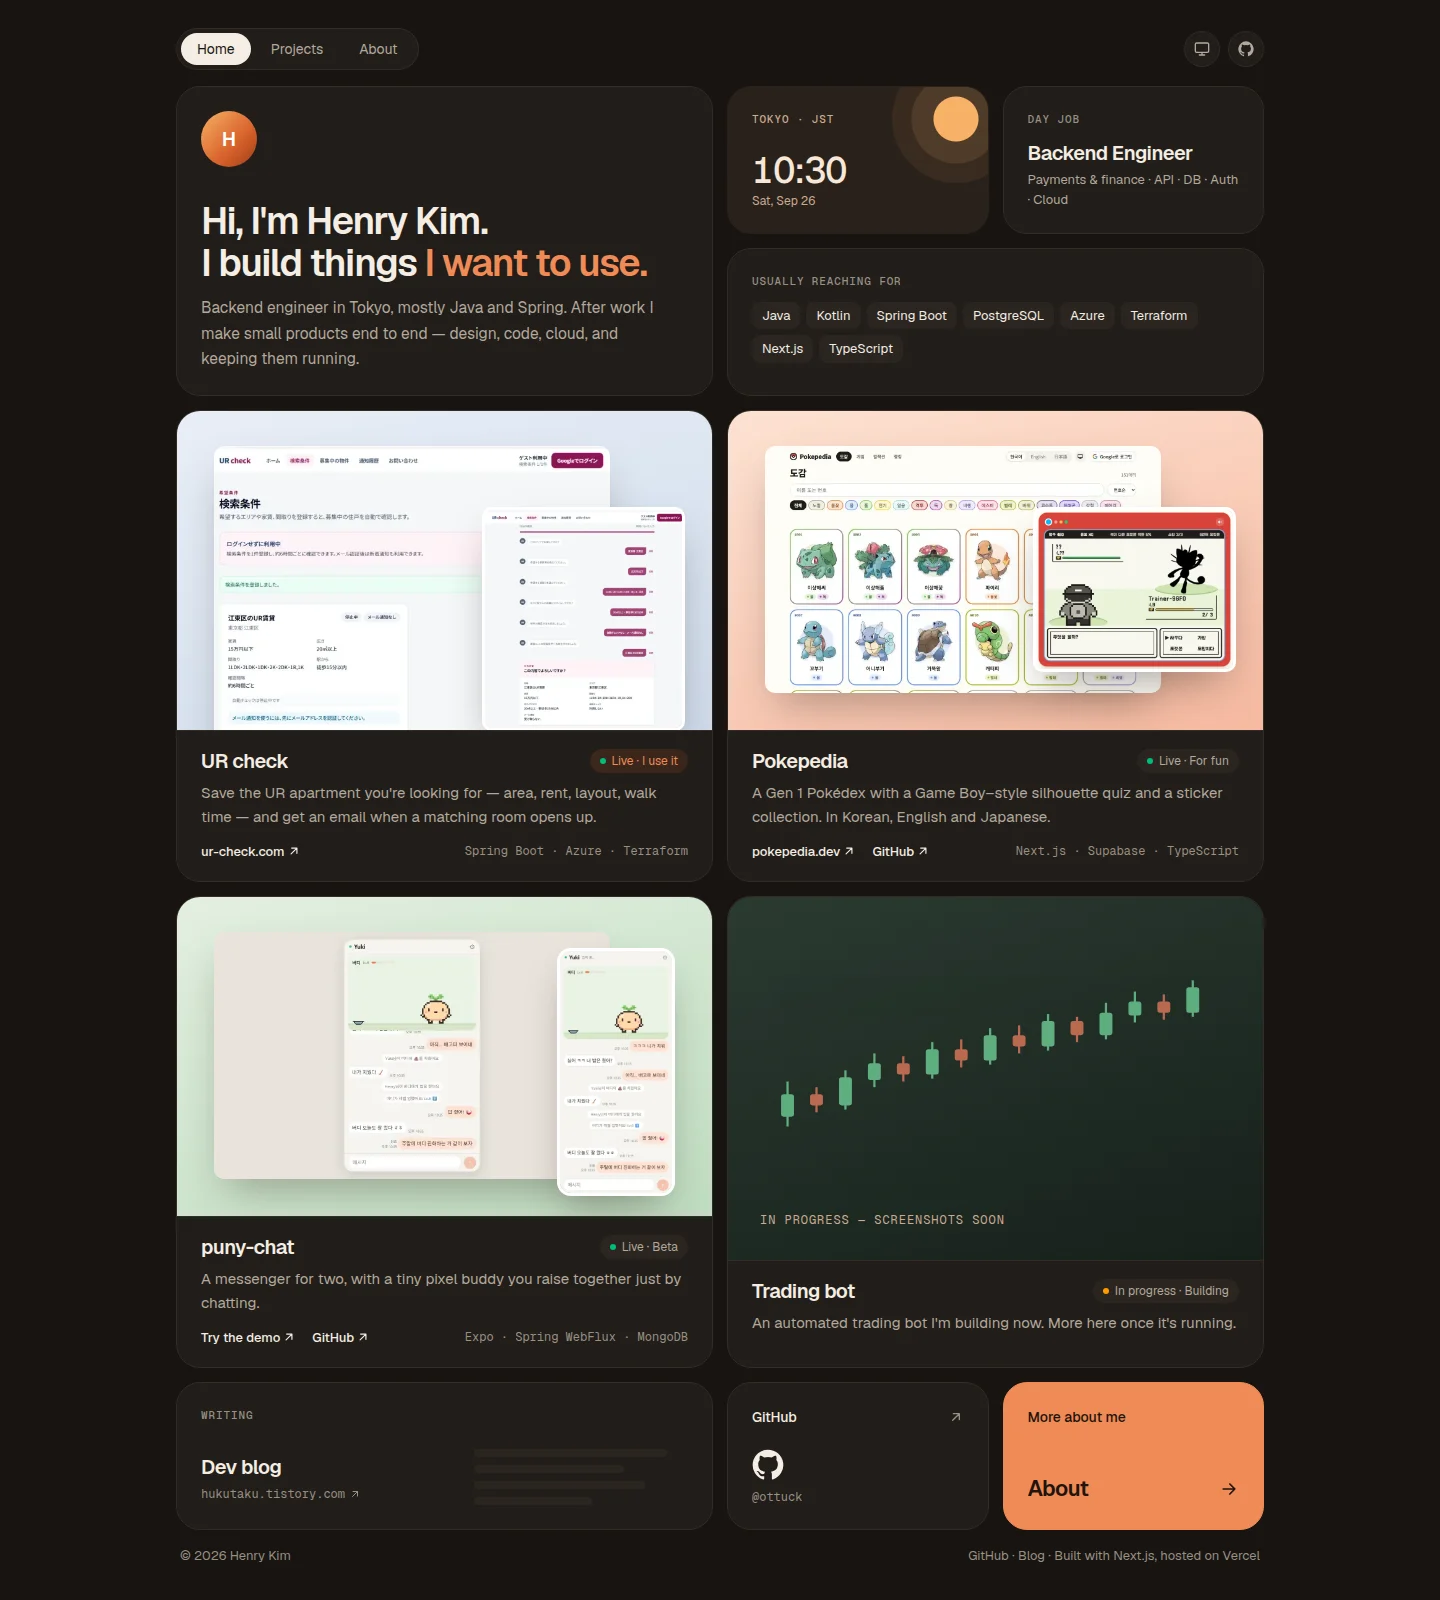
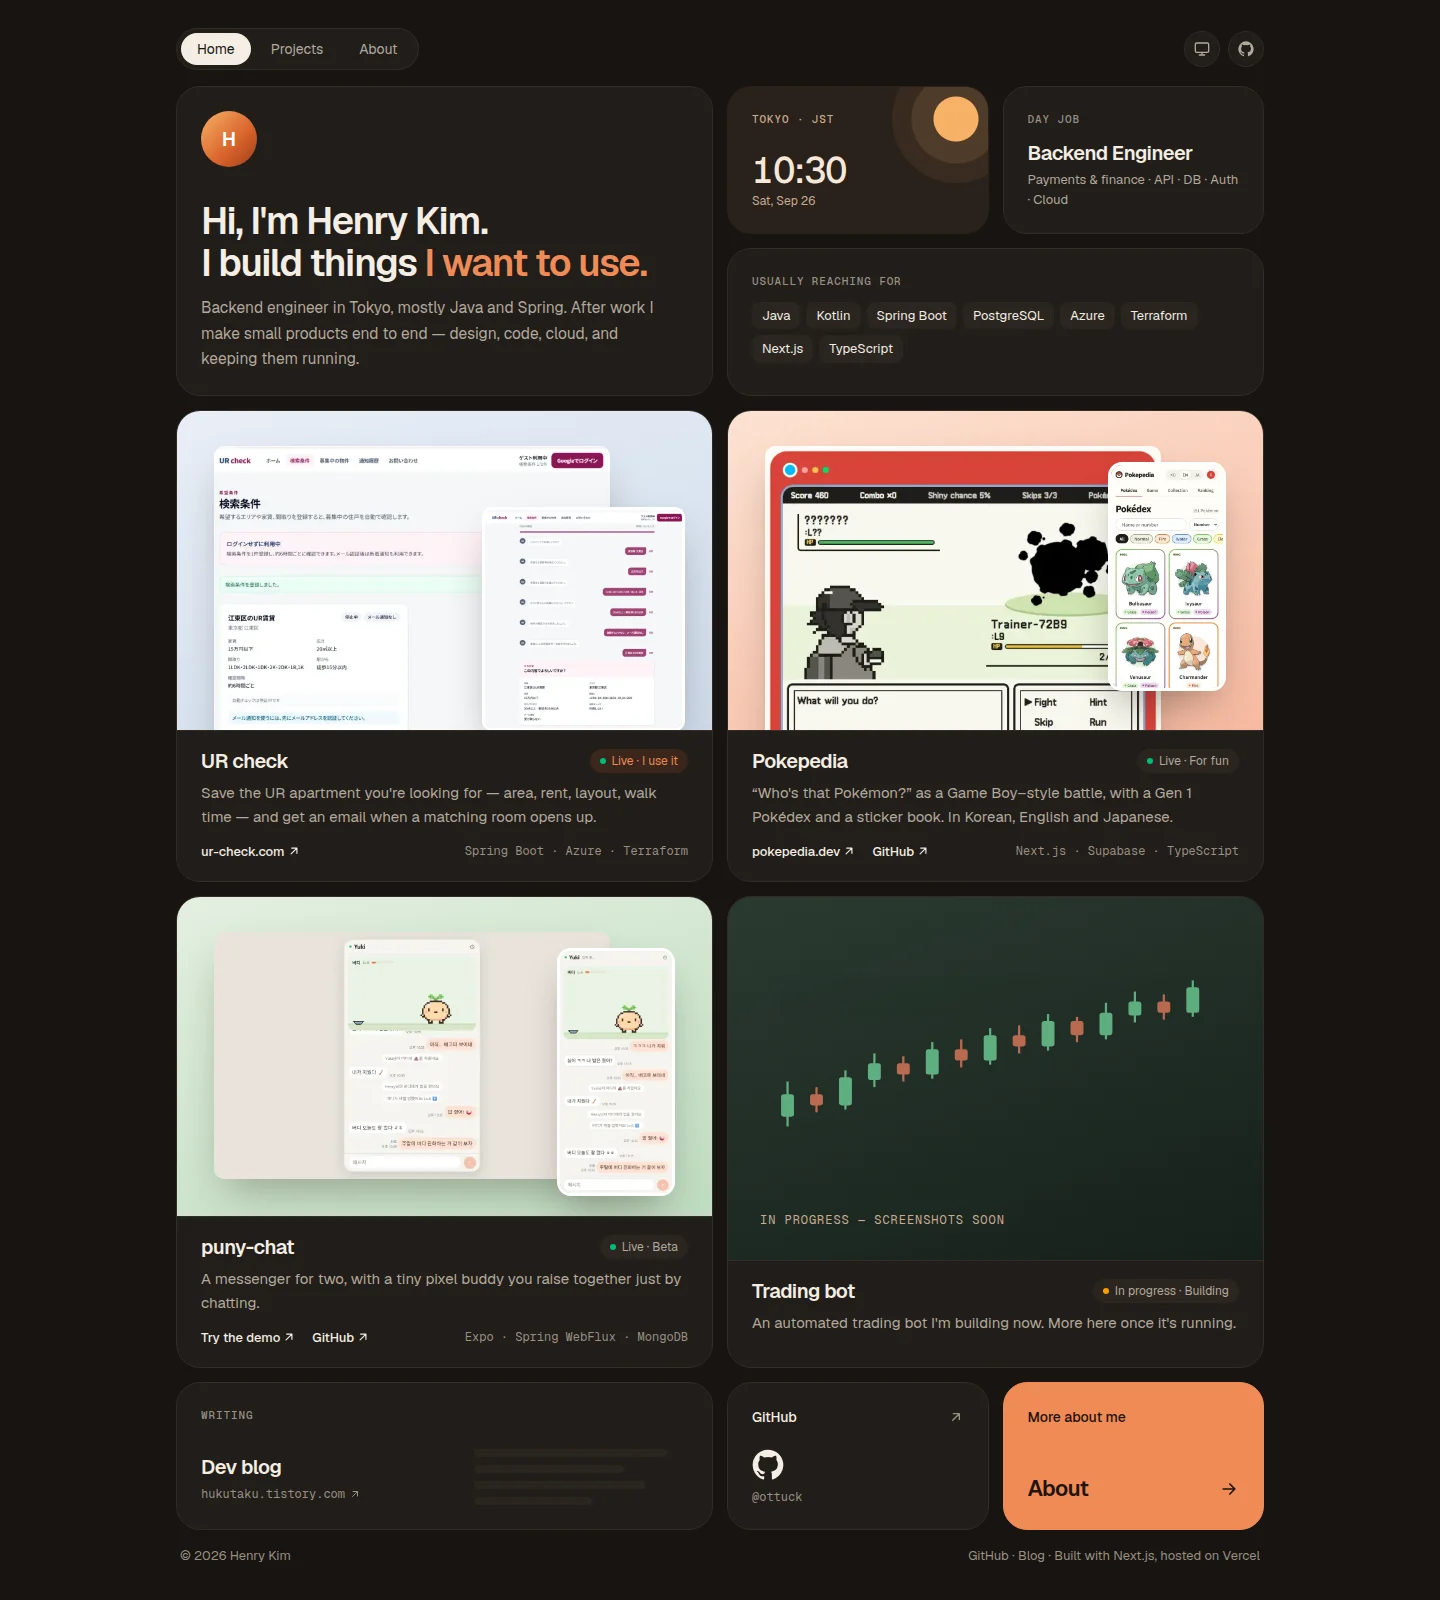
Update Pokepedia: the game is its front page now (#5)
Describe Pokepedia as the Game Boy-style battle it now opens with, and
refresh the portfolio preview to match.

Claude-Session: https://claude.ai/code/session_01EfKEEZmVa9rETKrKox4cCi

Changed region(s): [[0.5312, 0.2812, 0.875, 0.5312]]

diff --git a/README.md b/README.md
@@ -11,7 +11,7 @@ Before software, I spent my twenties as a hairstylist.
 
 - **[UR check](https://ur-check.com)** — Email alerts when a UR apartment that matches your search opens up in Tokyo.  
   <sub>Spring Boot · Azure Container Apps · Terraform</sub>
-- **[Pokepedia](https://pokepedia.dev)** — A Gen 1 Pokédex with a Game Boy–style silhouette quiz, in Korean, English and Japanese. [Source](https://github.com/ottuck/pokepedia)  
+- **[Pokepedia](https://pokepedia.dev)** — A Game Boy–style “Who's that Pokémon?” battle with a Gen 1 Pokédex, in Korean, English and Japanese. [Source](https://github.com/ottuck/pokepedia)  
   <sub>Next.js · Supabase · Vercel</sub>
 - **[puny-chat](https://puny-chat.com/demo)** — A messenger for two, with a tiny pixel buddy you raise together just by chatting. iPhone and web. [Source](https://github.com/ottuck/buddy-chat)  
   <sub>Expo · Spring WebFlux · MongoDB Atlas · Railway · Cloudflare</sub>
